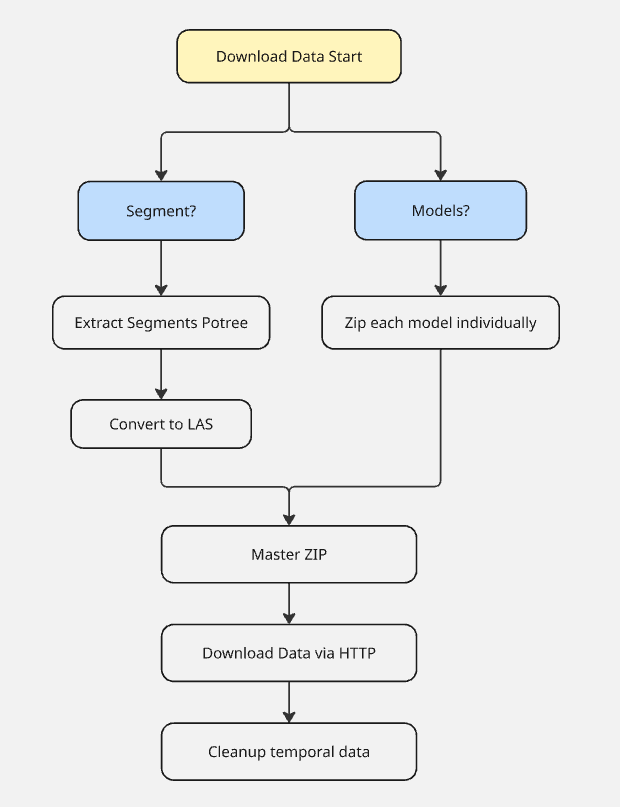
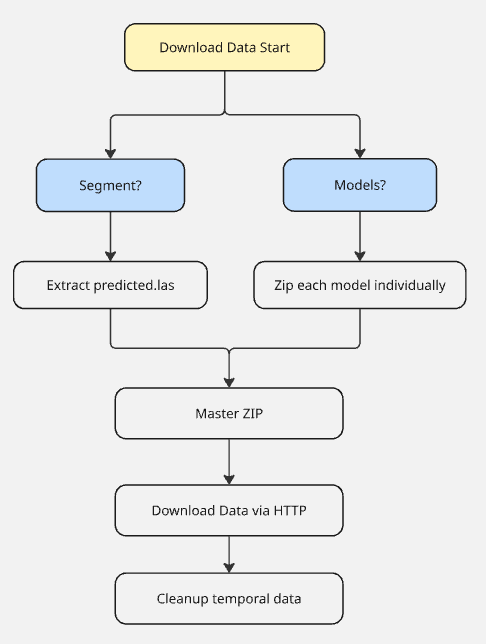
upload download schema and organize the sections

diff --git a/classifyViewer/viewer/templates/viewer/docs_page.html b/classifyViewer/viewer/templates/viewer/docs_page.html
@@ -108,16 +108,6 @@
                             <div class="card-title">Training Mode</div>
                             <div class="card-desc">Label points and train a classifier from scratch.</div>
                         </div>
-                        <div class="doc-card" onclick="navigateTo('classify')">
-                            <div class="card-icon">🔬</div>
-                            <div class="card-title">Classify Mode</div>
-                            <div class="card-desc">Run inference on unlabelled data with a saved model.</div>
-                        </div>
-                        <div class="doc-card" onclick="navigateTo('export')">
-                            <div class="card-icon">⬆</div>
-                            <div class="card-title">Export / Download</div>
-                            <div class="card-desc">Save your the prediction point cloud and trained models.</div>
-                        </div>
                         <div class="doc-card" onclick="navigateTo('tools')">
                             <div class="card-icon">🛠</div>
                             <div class="card-title">Tools &amp; Selection</div>
@@ -127,6 +117,16 @@
                             <div class="card-icon">✦</div>
                             <div class="card-title">Features</div>
                             <div class="card-desc">Geometric features and the feature matrix explained.</div>
+                        </div>
+                        <div class="doc-card" onclick="navigateTo('classify')">
+                            <div class="card-icon">🔬</div>
+                            <div class="card-title">Classify Mode</div>
+                            <div class="card-desc">Run inference on unlabelled data with a saved model.</div>
+                        </div>
+                        <div class="doc-card" onclick="navigateTo('export')">
+                            <div class="card-icon">⬆</div>
+                            <div class="card-title">Export / Download</div>
+                            <div class="card-desc">Save your the prediction point cloud and trained models.</div>
                         </div>
                         <div class="doc-card" onclick="navigateTo('shortcuts')">
                             <div class="card-icon">⌨</div>